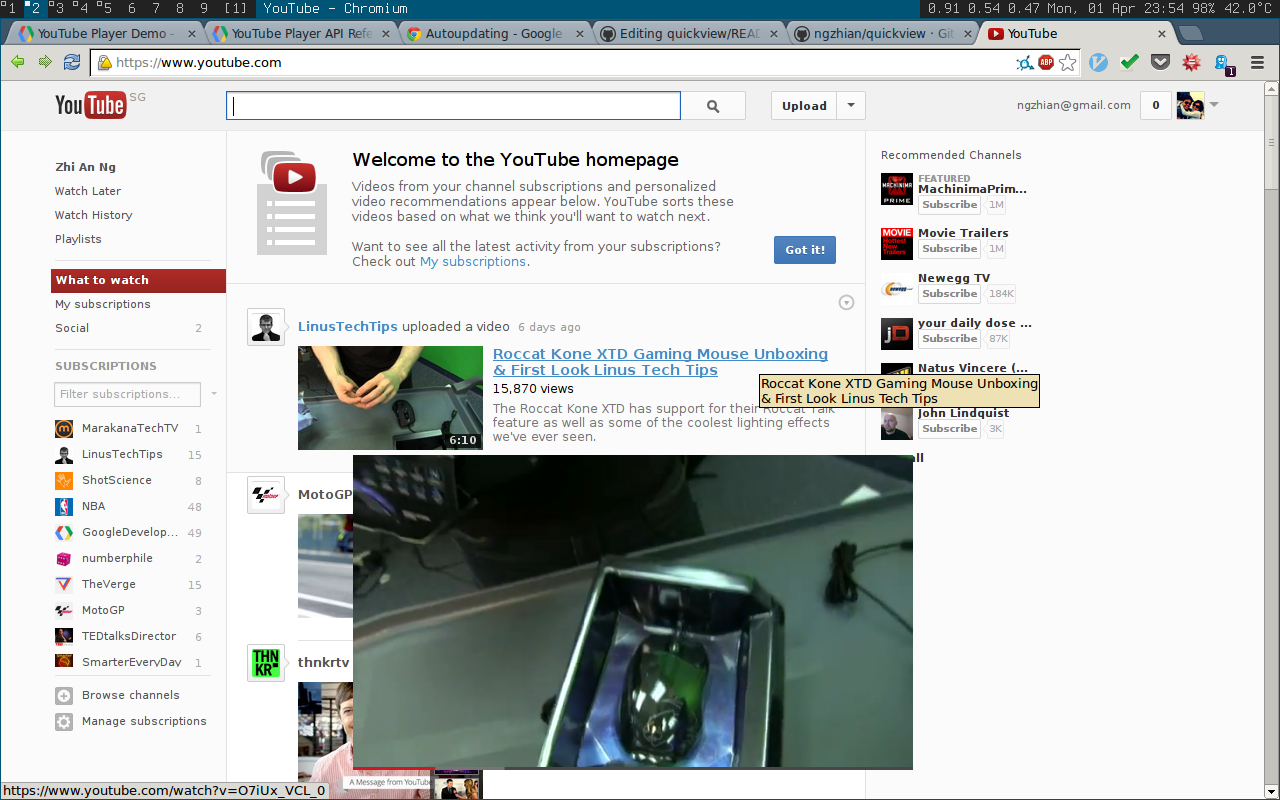
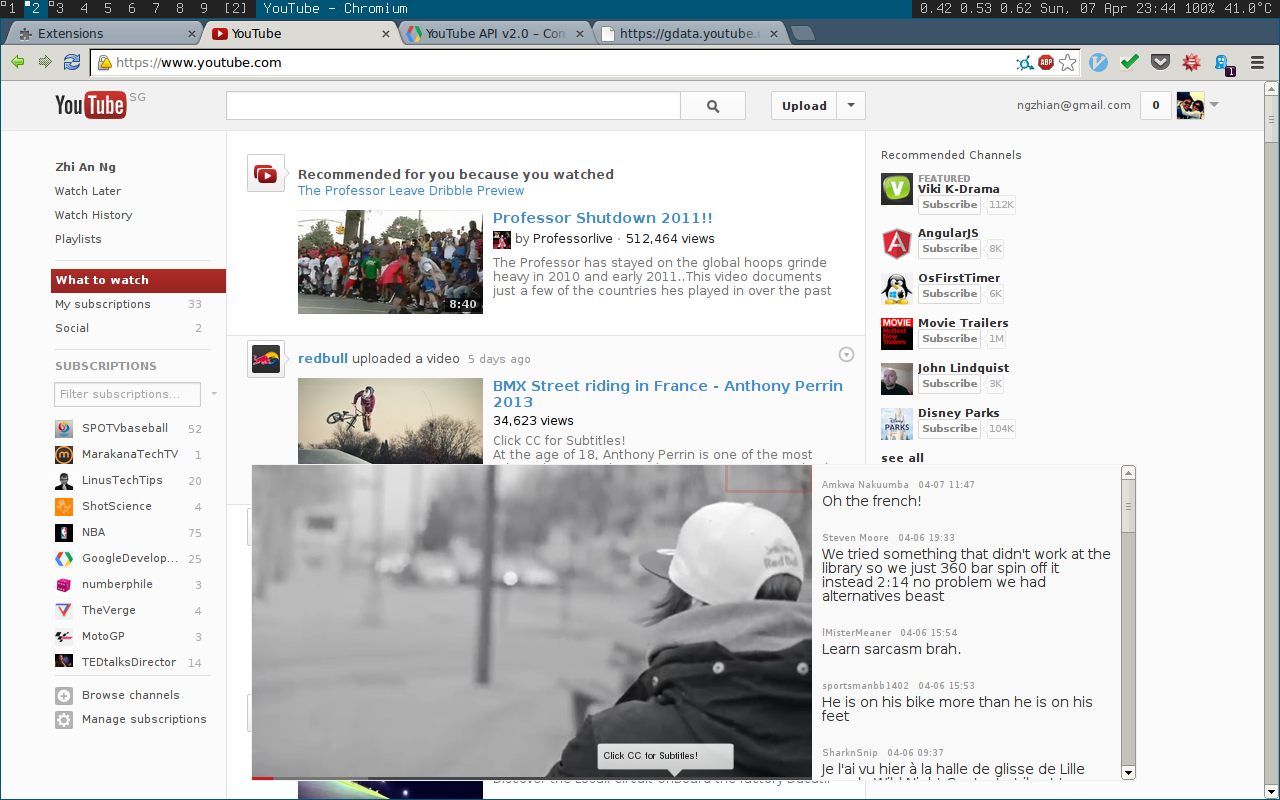
added comments
prettified

updated readme and added new ss to show latest features

diff --git a/qv.js b/qv.js
@@ -1,13 +1,58 @@
 var qv = function() {
-    var p1 = '<div class="quickview"><iframe width="560" height="315" src="http://www.youtube.com/embed/';
-    var p2= '?autoplay=1" frameborder="0" allowfullscreen=""></iframe></div>';
     var shown = false;
     var shown_id = null;
 
-    function clear_all() {
-        $(".quickview").css("display", "none");
-        $(".quickview").remove();
-        shown = false;
+    /* creates a quickview div and adds it as a sibling of the
+     * element (h4) which was hovered.
+     * @element: element that user hovered over to trigger quickview
+     * @v_id: id of video
+     */
+    var make_qv = function(element, v_id) {
+        element.after('<div class="qv"></div>');
+        var qv = element.next('.qv');
+
+        // adds video iframe
+        qv.prepend(function() {
+            return '<iframe width="560" height="315"' + 
+            ' src="http://www.youtube.com/embed/' + v_id +
+            '?autoplay=1" frameborder="0" allowfullscreen=""></iframe>';
+        });
+
+        // show the video
+        qv.css("display", "block");
+
+        // adds comments async
+        $.get(
+                'https://gdata.youtube.com/feeds/api/videos/'  + v_id + '/comments',
+                function(data) {
+                    var comments = '<div class="qv-comments">';
+                    $('entry', data).each(function() {
+                        comments += form_nice_comment($(this))
+                    });
+                    comments += '</div>';
+                    qv.append(comments);
+                });
+
+        function form_nice_comment(entry) {
+            var author = entry.find('author').find('name').text();
+            var date = entry.find('published').text();
+            var content = entry.find('content').text();
+
+            var comment = '<div class="qv-comment">' +
+                '<span class="qv-author">' + author + '</span>' +
+                '<span class="qv-date">' + form_nice_date(date) + '</span>' +
+                '<p class="qv-content">' + content + '</p>' +
+                '</div>';
+            return comment;
+        }
+
+        /* @date is in the format yyyy-mm-ddThh:mm:ss.000Z
+        */
+        function form_nice_date(date) {
+            return date.slice(5,10) + " " + date.slice(11,16);
+        }
+
+        return qv;
     }
 
     function get_good_y(mouse_y) {
@@ -19,27 +64,11 @@ var qv = function() {
         else return 0;
     }
 
-    function get_good_x() {
-        // center the youtube iframe
-        return (document.width - 560) / 2;
+    function clear_all() {
+        $(".qv").css("display", "none");
+        $(".qv").remove();
+        shown = false;
     }
-
-
-    function attach_clear_events() {
-        $(document).click(function() {
-            clear_all();
-        }).keypress(function() {
-            clear_all();
-        });
-    }
-
-
-    function reattach_events_on_feed_load() {
-        $('.feed-container').on('DOMNodeInserted DOMNodeRemoved', function() {
-            attach_events_for_each_video();
-        });
-    }
-
 
     function attach_events_for_each_video() {
         $('.feed-item-content-wrapper').each(function(index){
@@ -47,9 +76,7 @@ var qv = function() {
             $(this).find('a.feed-video-title').mouseover(function(e) {
                 if (shown == false || shown_id != itemid) {
                     clear_all();
-                    $(this).append(p1 + itemid + p2);
-                    $(this).children(".quickview").css("display", "block")
-                .css("left", get_good_x())
+                    make_qv($(this).parent(), itemid)
                 .css("top", get_good_y(e.screenY));
             shown = true;
             shown_id = itemid;
@@ -58,7 +85,28 @@ var qv = function() {
         });
     }
 
-    attach_events_for_each_video();
-    reattach_events_on_feed_load();
-    attach_clear_events();
+    function reattach_events_on_feed_load() {
+        $('.feed-container').on('DOMNodeInserted DOMNodeRemoved', function() {
+            attach_events_for_each_video();
+        });
+    }
+
+    function attach_clear_events() {
+        $(document).click( function(e) {
+            // click to clear only works when click is not on qv node
+            console.log(e);
+            if (e.target.className.indexOf("qv") == -1) {
+                clear_all();
+            }
+        }).keypress(function() {
+            clear_all();
+        });
+    }
+
+    var init = function() {
+        attach_events_for_each_video();
+        reattach_events_on_feed_load();
+        attach_clear_events();
+    }();
+
 }();

diff --git a/qv.css b/qv.css
@@ -1,4 +1,42 @@
-.quickview {
+.qv {
     display: none;
     position: fixed;
+    z-index: 999;
+    left: 250px;
+    //background: blue;
+    width: 70%;
+    height: 315px;
+    border: 1px solid #F1F1F1;
+}
+
+.qv iframe {
+    float: left;
+}
+
+.qv-comments {
+    background: #F9F9F9;
+    height: 315px;
+    overflow: auto;
+    font: Sans;
+    font-size: 100%;
+    line-height: 1.5em;
+    color: #999;
+}
+
+.qv-comment {
+    padding: 10px;
+}
+
+.qv-content {
+    color: #333;
+    font-size: 1.125em;
+}
+
+.qv-author {
+    font-size: 0.75em;
+    margin-right: 1em;
+}
+
+.qv-date {
+    font-size: 0.75em;
 }

diff --git a/README.md b/README.md
@@ -7,6 +7,7 @@ Watch videos without leaving your YouTube subscriptions feed page.
 ![A sreenshot](https://raw.github.com/ngzhian/quickview/master/ss.png)
 
 A div with an embedded iframe shows up when you mouse over the title of the video.
+Comments are loaded beside the video.
 
 Click outside of the video or press any key to end the video.
 
@@ -32,15 +33,21 @@ And it costs $5 :(
 Hi, people call me Zhi An, but you can call me Tonight,
 and I made this because I like to watch YouTube videos and I don't like to click that much.
 
+##TODO
+- Paginate comments
+- Make div draggable
+- Animate the div, right now it pops up abruptly
+- Add links for author of comments
+
 ##Bugs.
-This is a weeknight hack, so there are many many many bugs and it looks ugly.
+There are many many many bugs and it looks ugly.
 E.g. some videos disable embed and so you can't watch it,
-o config options for users, I use used whichever configurations I liked.
+No config options for users, I use used whichever configurations I liked.
 
 I welcome all criticisms and suggestions :)
 
 ##License
 Probably some CC BY SA, or some BSD, or some GNU kind of license, I really don't know.
 
-Main thing is this is a quick hack and I take not responsibility for exploding browsers.
+Main gist: I take no responsibility for exploding browsers.
 And of course feel free to fork/hack on this.
